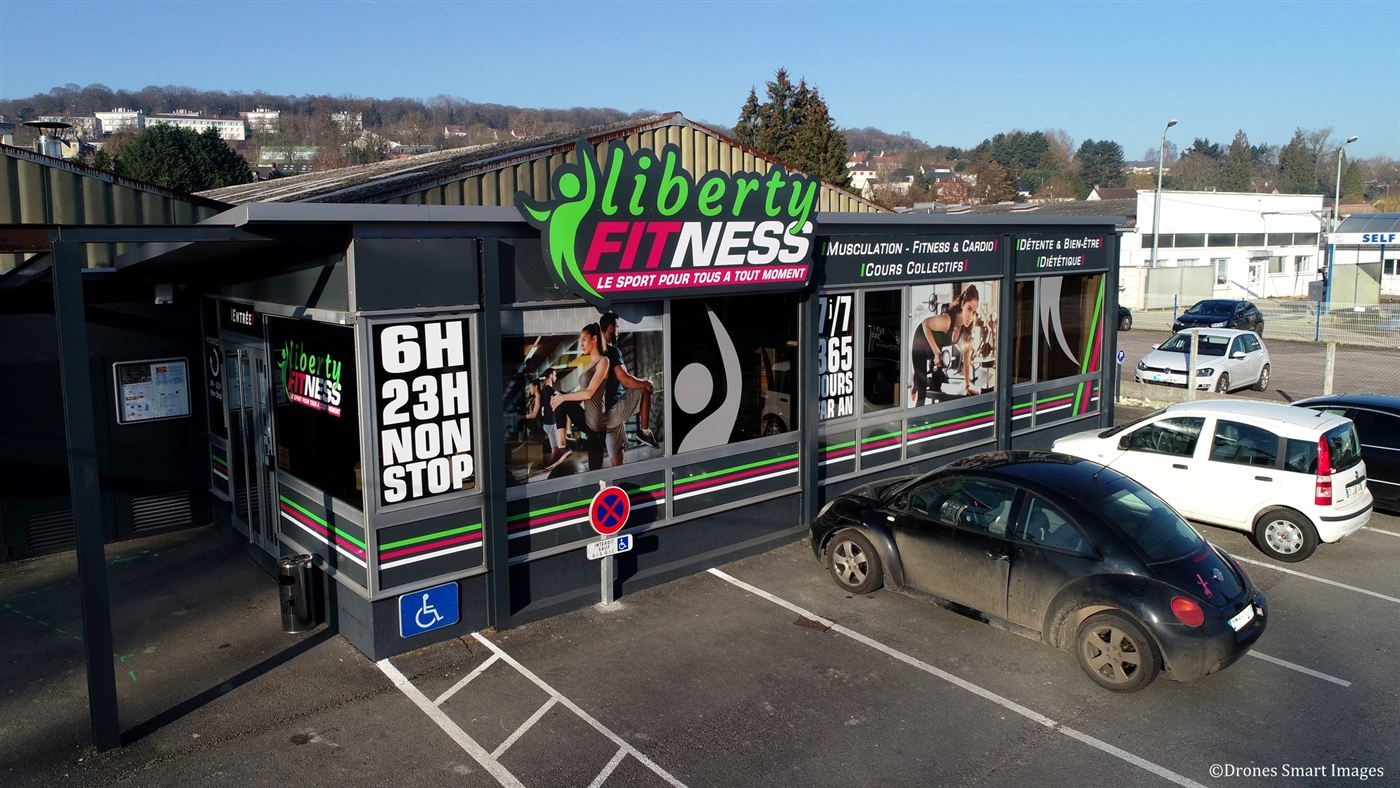
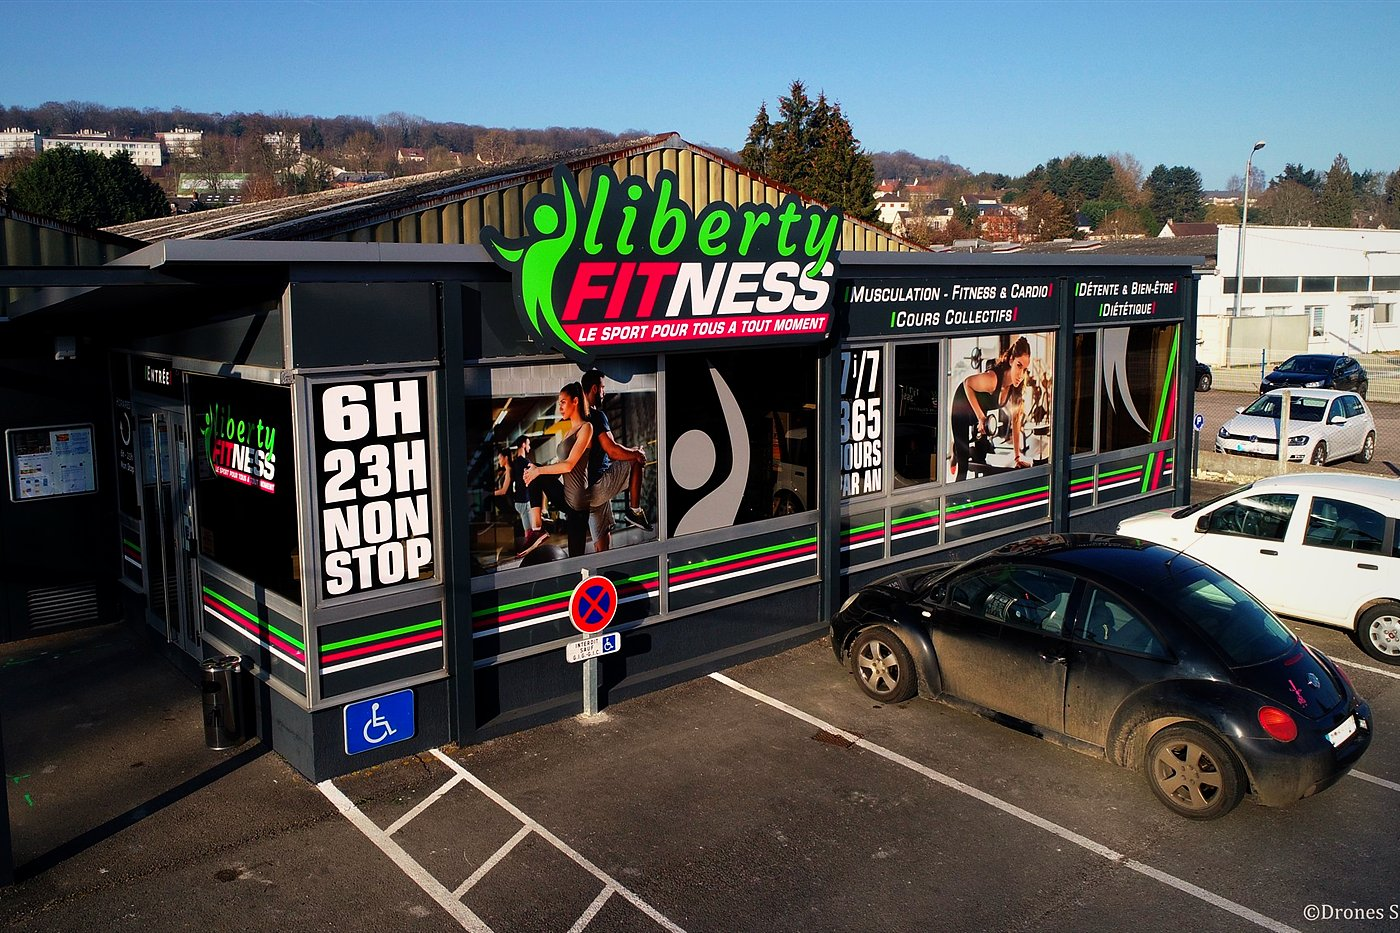
Photos de la salle retouchées et cadres au format 3:2
Recadrage (moins de plafond), balance des blancs, contraste, couleurs
ravivées et vignetage, appliqués de la même façon à toutes les photos.

diff --git a/style.css b/style.css
@@ -108,7 +108,7 @@ section { padding-block: 72px; }
 .dot.on { background: var(--lime); box-shadow: 0 0 0 4px rgb(165 249 6 / .2); }
 .status span span { color: var(--muted); }
 .hero-photo { position: relative; }
-.hero-photo img { width: 100%; aspect-ratio: 4 / 3; object-fit: cover; border-radius: var(--r); }
+.hero-photo img { width: 100%; aspect-ratio: 3 / 2; object-fit: cover; border-radius: var(--r); }
 .badge-365 { position: absolute; top: 20px; left: -14px; background: var(--lime); color: var(--on-lime); padding: 14px 20px 12px; font-family: var(--display); font-style: italic; font-stretch: 66%; font-weight: 900; text-transform: uppercase; line-height: .9; font-size: 1.6rem; transform: rotate(-3deg); border-radius: var(--r); }
 .badge-365 small { display: block; font-size: .8rem; font-style: normal; font-stretch: 100%; font-weight: 600; letter-spacing: .08em; }
 @media (max-width: 860px) { .badge-365 { left: 12px; } }
@@ -124,13 +124,13 @@ section { padding-block: 72px; }
 .gallery { display: grid; grid-template-columns: 2fr 1fr 1fr; grid-template-rows: repeat(2, 1fr); gap: 12px; }
 .gallery figure { margin: 0; position: relative; overflow: hidden; border-radius: var(--r); }
 .gallery figure:first-child { grid-row: span 2; }
-.gallery img { width: 100%; height: 100%; object-fit: cover; aspect-ratio: 4 / 3; }
+.gallery img { width: 100%; height: 100%; object-fit: cover; aspect-ratio: 3 / 2; }
 .gallery figure:first-child img { aspect-ratio: auto; }
 figcaption { position: absolute; left: 10px; bottom: 10px; background: rgb(10 11 9 / .8); padding: 5px 10px; border-radius: 4px; font-size: .82rem; font-weight: 600; }
-@media (max-width: 700px) { .gallery { grid-template-columns: 1fr 1fr; grid-template-rows: none; } .gallery figure:first-child { grid-column: span 2; grid-row: auto; } .gallery figure:first-child img { aspect-ratio: 4 / 3; } }
+@media (max-width: 700px) { .gallery { grid-template-columns: 1fr 1fr; grid-template-rows: none; } .gallery figure:first-child { grid-column: span 2; grid-row: auto; } .gallery figure:first-child img { aspect-ratio: 3 / 2; } }
 .photos { display: grid; grid-template-columns: repeat(auto-fill, minmax(260px, 1fr)); gap: 12px; }
 .photos figure { margin: 0; position: relative; overflow: hidden; border-radius: var(--r); }
-.photos img { width: 100%; aspect-ratio: 4 / 3; object-fit: cover; transition: transform .3s; }
+.photos img { width: 100%; aspect-ratio: 3 / 2; object-fit: cover; transition: transform .3s; }
 .photos figure:hover img { transform: scale(1.03); }
 
 /* Cartes, portes, listes */
@@ -150,7 +150,7 @@ figcaption { position: absolute; left: 10px; bottom: 10px; background: rgb(10 11
 .split { display: grid; grid-template-columns: 1fr 1fr; gap: 48px; align-items: center; }
 .split.rev > :first-child { order: 2; }
 @media (max-width: 860px) { .split { grid-template-columns: 1fr; gap: 28px; } .split.rev > :first-child { order: 0; } }
-.split img { width: 100%; aspect-ratio: 4 / 3; object-fit: cover; border-radius: var(--r); }
+.split img { width: 100%; aspect-ratio: 3 / 2; object-fit: cover; border-radius: var(--r); }
 .split .txt { display: grid; gap: 16px; align-content: start; }
 .split .txt p { color: var(--muted); }
 .disclaimer { font-size: .8rem; color: var(--muted); margin-top: 8px; }
